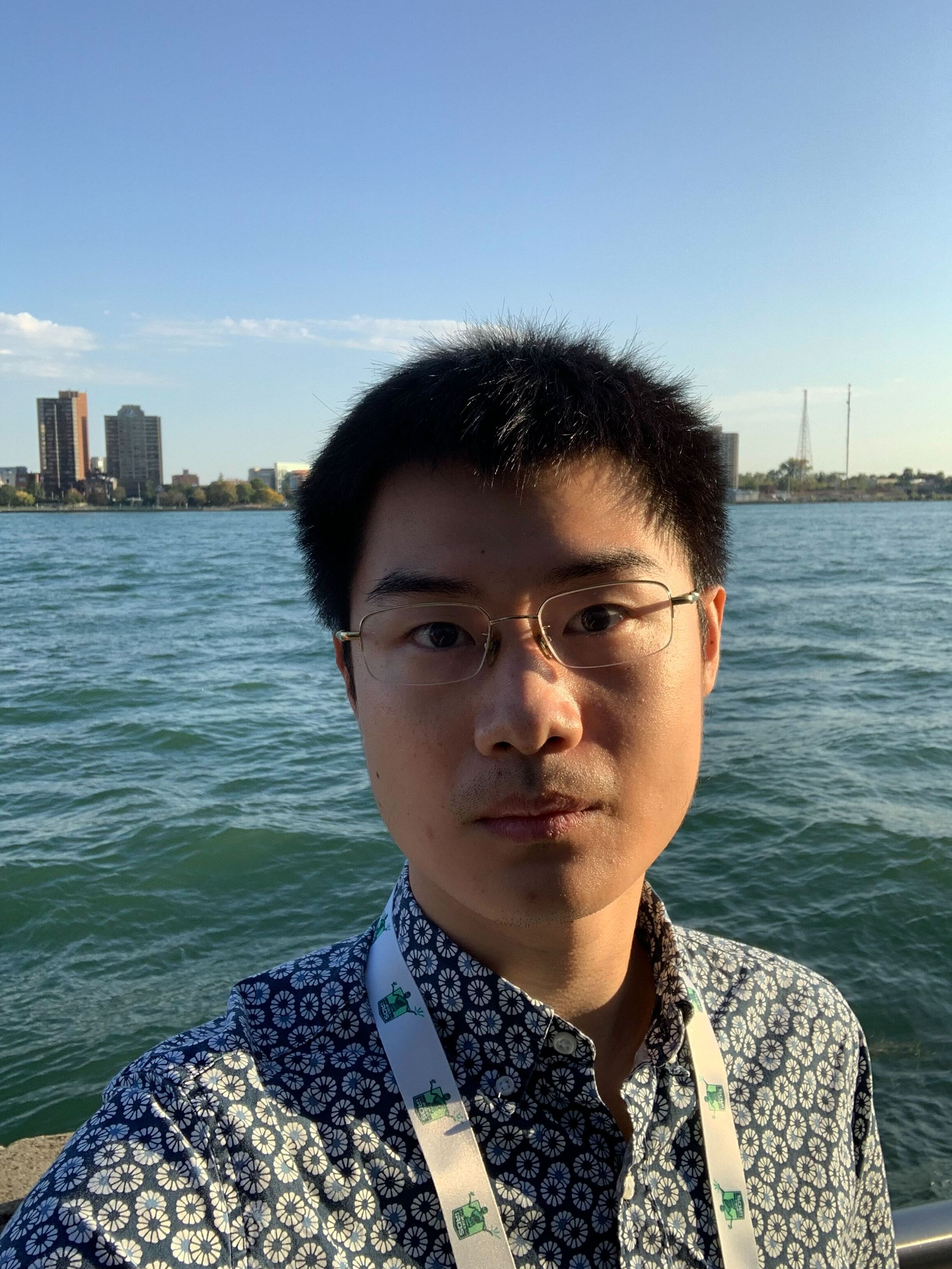
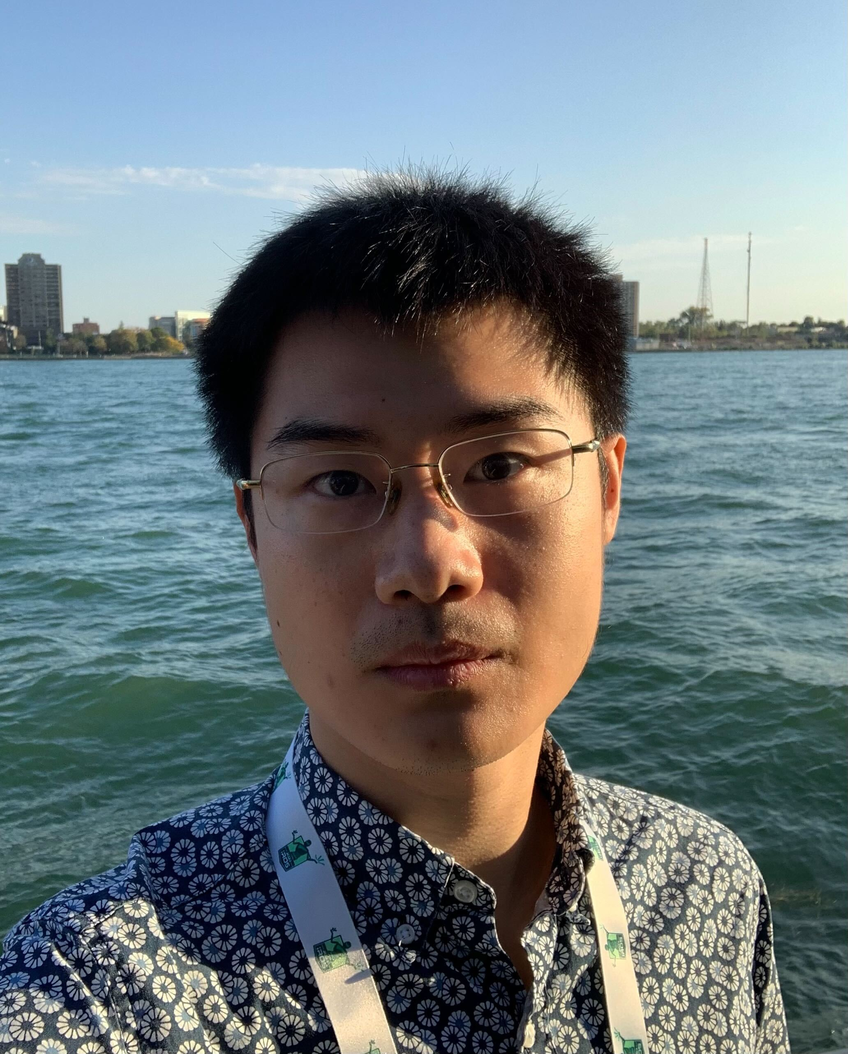
my picture

diff --git a/layouts/partials/head.html b/layouts/partials/head.html
@@ -1,4 +1,4 @@
 {{ $customCSS := resources.Get "css/custom.css" | minify }}
 <link rel="stylesheet" href="{{ $customCSS.RelPermalink }}">
 
-<img src="/content/authors/admin/avatar.jpg" width="250" height="200">
+<img src="/content/authors/admin/avatar.jpg" width="200" height="250">
